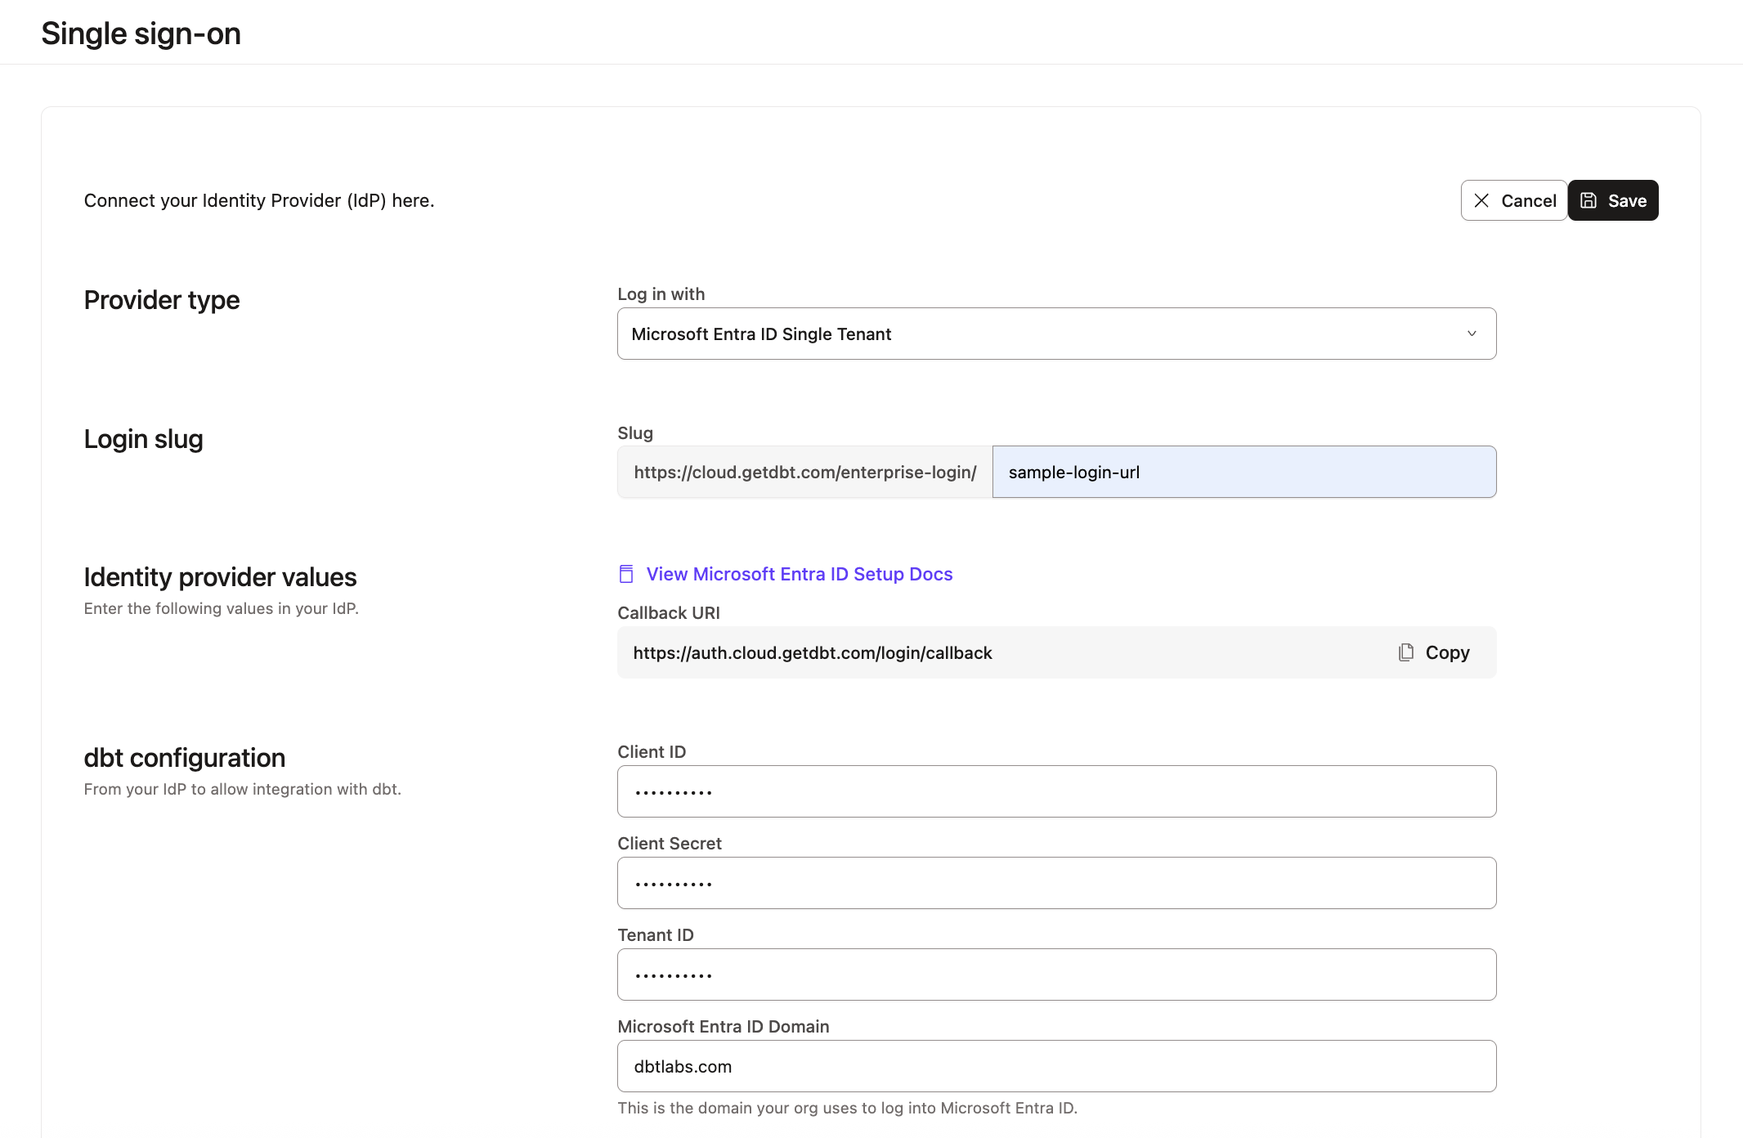
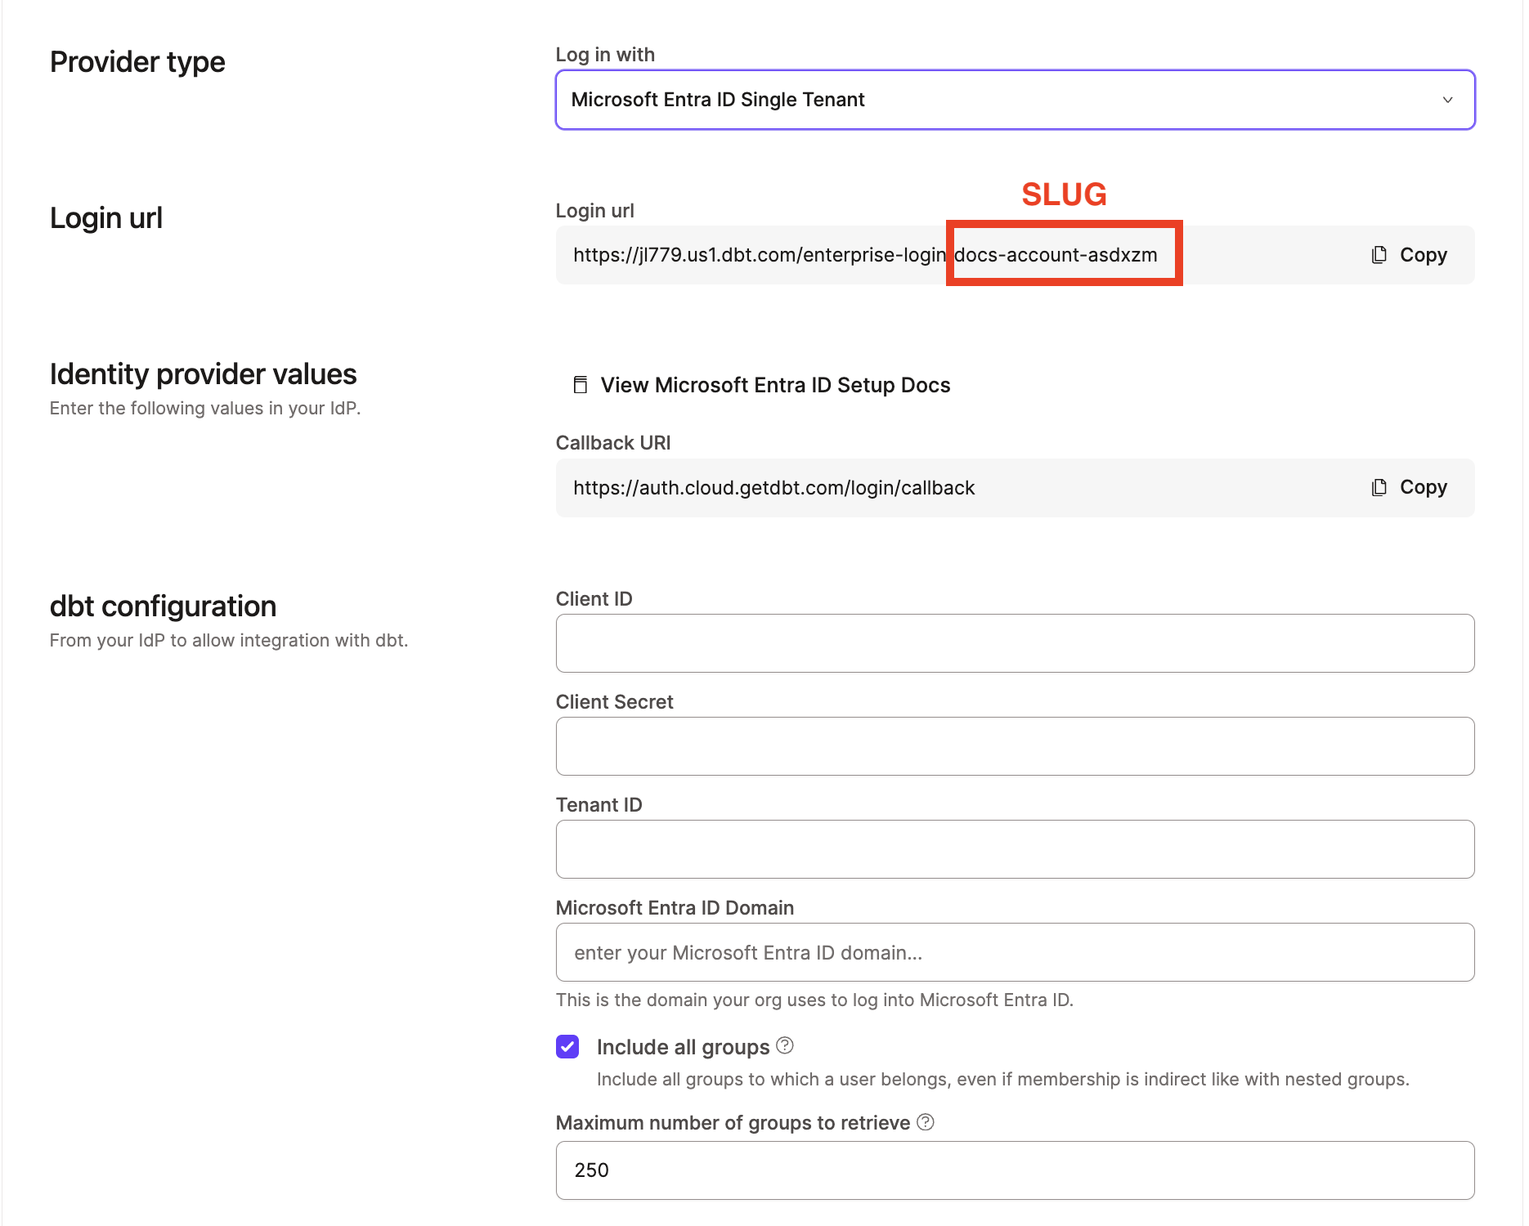
SSO Slug updates

diff --git a/website/docs/docs/cloud/manage-access/set-up-sso-saml-2.0.md b/website/docs/docs/cloud/manage-access/set-up-sso-saml-2.0.md
@@ -39,15 +39,15 @@ You'll need administrator access to your SAML 2.0 compliant identity provider to
 
 <Snippet path="access_url" />
 
-To complete this section, you will need to create a login slug. This slug controls the URL where users on your account can log into your application. Login slugs are typically the lowercased name of your organization. It should contain only letters, numbers, and dashes.
-separated with dashes. For example, the login slug for dbt Labs would be `dbt-labs`.
-Login slugs must be unique across all <Constant name="cloud" /> accounts, so pick a slug that uniquely identifies your company.
+To complete this section, you will need your login URL slug. This slug controls the URL where users on your account can log into your application. Login URL slugs are automatically set by dbt and can't be altered. It should contain only letters, numbers, and dashes.
+For example, the login URL slug for dbt Labs would be `dbt-labs`.
+Login URL slugs are unique across all <Constant name="cloud" /> accounts.
 
 When prompted for the SAML 2.0 application configurations, supply the following values:
 
-* Single sign on URL: `https://YOUR_AUTH0_URI/login/callback?connection=<login slug>`
-* Audience URI (SP Entity ID): `urn:auth0:<YOUR_AUTH0_ENTITYID>:{login slug}`
-- Relay State: `<login slug>` (Note: Relay state may be shown as optional in the IdP settings; it is _required_ for the dbt SSO configuration.) 
+* Single sign on URL: `https://YOUR_AUTH0_URI/login/callback?connection=<login URL slug>`
+* Audience URI (SP Entity ID): `urn:auth0:<YOUR_AUTH0_ENTITYID>:{login URL slug}`
+- Relay State: `<login URL slug>` (Note: Relay state may be shown as optional in the IdP settings; it is _required_ for the dbt SSO configuration.) 
 
 Additionally, you may configure the IdP attributes passed from your identity provider into <Constant name="cloud" />. [SCIM configuration](/docs/cloud/manage-access/scim) requires `NameID` and `email` to associate logins with the correct user. If you're using license mapping for groups, you need to additionally configure the `groups` attribute. We recommend using the following values:
 
@@ -141,9 +141,9 @@ You can use the instructions in this section to configure Okta as your identity 
 
 <Snippet path="access_url" />
 
-To complete this section, you will need to create a login slug. This slug controls the URL where users on your account can log into your application. Login slugs are typically the lowercased name of your organization. It should contain only letters, numbers, and dashes.
-separated with dashes. For example, the login slug for dbt Labs would be `dbt-labs`.
-Login slugs must be unique across all <Constant name="cloud" /> accounts, so pick a slug that uniquely identifies your company.
+To complete this section, you will need your login URL slug. This slug controls the URL where users on your account can log into your application. Login URL slugs are automatically set by dbt and can't be changed. It should contain only letters, numbers, and dashes.
+For example, the login URL slug for dbt Labs would be `dbt-labs`.
+Login URL slugs are unique across all <Constant name="cloud" /> accounts.
 
 1. On the **General Settings** page, enter the following details:
 
@@ -163,9 +163,9 @@ Login slugs must be unique across all <Constant name="cloud" /> accounts, so pic
 
 1. On the **SAML Settings** page, enter the following values:
 
-   * **Single sign on URL**: `https://YOUR_AUTH0_URI/login/callback?connection=<login slug>`
-   * **Audience URI (SP Entity ID)**: `urn:auth0:<YOUR_AUTH0_ENTITYID>:<login slug>`
-   * **Relay State**: `<login slug>`
+   * **Single sign on URL**: `https://YOUR_AUTH0_URI/login/callback?connection=<login URL slug>`
+   * **Audience URI (SP Entity ID)**: `urn:auth0:<YOUR_AUTH0_ENTITYID>:<login URL slug>`
+   * **Relay State**: `<login URL slug>`
    * **Name ID format**: `Unspecified`
    * **Application username**: `Custom` / `user.getInternalProperty("id")`
    * **Update Application username on**: `Create and update`
@@ -246,10 +246,9 @@ Use this section if you are configuring Google as your identity provider.
 
 <Snippet path="access_url" />
 
-To complete this section, you will need to create a login slug. This slug controls the URL where users on your account
-can log into your application. Login slugs are typically the lowercased name of your organization
-separated with dashes. It should contain only letters, numbers, and dashes. For example, the login slug for dbt Labs would be `dbt-labs`.
-Login slugs must be unique across all <Constant name="cloud" /> accounts, so pick a slug that uniquely identifies your company.
+To complete this section, you will need your login URL slug. This slug controls the URL where users on your account can log into your application. Login URL slugs are automatically set by dbt and can't be changed. It should contain only letters, numbers, and dashes.
+For example, the login URL slug for dbt Labs would be `dbt-labs`.
+Login URL slugs are unique across all <Constant name="cloud" /> accounts.
 
 1. Sign into your **Google Admin Console** via an account with super administrator privileges.
 2. From the Admin console Home page, go to **Apps** and then click **Web and mobile apps**.
@@ -266,9 +265,9 @@ Login slugs must be unique across all <Constant name="cloud" /> accounts, so pic
 2. Download the **IDP metadata**.
 3. Copy the **SSO URL** and **Entity ID** and download the **Certificate** (or **SHA-256 fingerprint**, if needed).
 4. Enter the following values on the **Service Provider Details** window:
-   * **ACS URL**: `https://YOUR_AUTH0_URI/login/callback?connection=<login slug>`
-   * **Audience URI (SP Entity ID)**: `urn:auth0:<YOUR_AUTH0_ENTITYID>:<login slug>`
-   - **Start URL**: `<login slug>`
+   * **ACS URL**: `https://YOUR_AUTH0_URI/login/callback?connection=<login URL slug>`
+   * **Audience URI (SP Entity ID)**: `urn:auth0:<YOUR_AUTH0_ENTITYID>:<login URL slug>`
+   - **Start URL**: `<login URL slug>`
 5. Select the **Signed response** checkbox.
 6. The default **Name ID** is the primary email. Multi-value input is not supported.  If your user profile has a unique, stable value that will persist across email address changes, it's best to use that; otherwise, email will work.
 7. Use the **Attribute mapping** page to map your organization's Google Directory Attributes to the format that
@@ -314,9 +313,9 @@ If you're using Microsoft Entra ID (formerly Azure AD), the instructions below w
 
 <Snippet path="access_url" />
 
-To complete this section, you will need to create a login slug. This slug controls the URL where users on your account can log into your application. Login slugs are typically the lowercased name of your organization
-separated with dashes. It should contain only letters, numbers, and dashes. For example, the login slug for dbt Labs would be `dbt-labs`.
-Login slugs must be unique across all <Constant name="cloud" /> accounts, so pick a slug that uniquely identifies your company.
+To complete this section, you will need your login URL slug. This slug controls the URL where users on your account can log into your application. Login URL slugs are automatically set by dbt and can't be changed. It should contain only letters, numbers, and dashes.
+For example, the login URL slug for dbt Labs would be `dbt-labs`.
+Login URL slugs are unique across all <Constant name="cloud" /> accounts.
 
 Follow these steps to set up single sign-on (SSO) with <Constant name="cloud" />:
 
@@ -343,9 +342,9 @@ Follow these steps to set up single sign-on (SSO) with <Constant name="cloud" />
 
    | Field | Value |
    | ----- | ----- |
-   | **Identifier (Entity ID)** | Use `urn:auth0:<YOUR_AUTH0_ENTITYID>:<login slug>`. |
-   | **Reply URL (Assertion Consumer Service URL)** | Use `https://YOUR_AUTH0_URI/login/callback?connection=<login slug>`. |
-   | **Relay State** | `<login slug>` |
+   | **Identifier (Entity ID)** | Use `urn:auth0:<YOUR_AUTH0_ENTITYID>:<login URL slug>`. |
+   | **Reply URL (Assertion Consumer Service URL)** | Use `https://YOUR_AUTH0_URI/login/callback?connection=<login URL slug>`. |
+   | **Relay State** | `<login URL slug>` |
 
 14.   Click **Save** at the top of the form.
 
@@ -393,9 +392,9 @@ To configure OneLogin, you will need **Administrator** access.
 
 <Snippet path="access_url" />
 
-To complete this section, you will need to create a login slug. This slug controls the URL where users on your account can log into your application. Login slugs are typically the lowercased name of your organization
-separated with dashes. It should contain only letters, numbers, and dashes. For example, the login slug for dbt Labs would be `dbt-labs`.
-Login slugs must be unique across all <Constant name="cloud" /> accounts, so pick a slug that uniquely identifies your company.
+To complete this section, you will need your login URL slug. This slug controls the URL where users on your account can log into your application. Login URL slugs are automatically set by dbt and can't be changed. It should contain only letters, numbers, and dashes.
+For example, the login URL slug for dbt Labs would be `dbt-labs`.
+Login URL slugs are unique across all <Constant name="cloud" /> accounts.
 
 1. Log into OneLogin, and add a new SAML 2.0 Application.
 2. Configure the application with the following details:
@@ -408,10 +407,10 @@ Login slugs must be unique across all <Constant name="cloud" /> accounts, so pic
 
 3. Under the **Configuration tab**, input the following values:
 
-   - **RelayState:** `<login slug>`
-   - **Audience (EntityID):** `urn:auth0:<YOUR_AUTH0_ENTITYID>:<login slug>`
-   - **ACS (Consumer) URL Validator:** `https://YOUR_AUTH0_URI/login/callback?connection=<login slug>`
-   - **ACS (Consumer) URL:** `https://YOUR_AUTH0_URI/login/callback?connection=<login slug>`
+   - **RelayState:** `<login URL slug>`
+   - **Audience (EntityID):** `urn:auth0:<YOUR_AUTH0_ENTITYID>:<login URL slug>`
+   - **ACS (Consumer) URL Validator:** `https://YOUR_AUTH0_URI/login/callback?connection=<login URL slug>`
+   - **ACS (Consumer) URL:** `https://YOUR_AUTH0_URI/login/callback?connection=<login URL slug>`
 
 4. Next, go to the **Parameters tab**. You must have a parameter for the Email, First Name, and Last Name attributes and include all parameters in the SAML assertions. When you add the custom parameters, make sure you select the **Include in SAML assertion** checkbox.
 
@@ -486,7 +485,7 @@ To complete setup, follow the steps below in <Constant name="cloud" />:
    | Identity&nbsp;Provider&nbsp;SSO&nbsp;Url | Paste the **Identity Provider Single Sign-On URL** shown in the IdP setup instructions |
    | Identity&nbsp;Provider&nbsp;Issuer | Paste the **Identity Provider Issuer** shown in the IdP setup instructions |
    | X.509&nbsp;Certificate | Paste the **X.509 Certificate** shown in the IdP setup instructions; <br />**Note:** When the certificate expires, an Idp admin will have to generate a new one to be pasted into <Constant name="cloud" /> for uninterrupted application access. |
-   | Slug | Enter your desired login slug. |
+  
     <Lightbox src="/img/docs/dbt-cloud/dbt-cloud-enterprise/okta/okta-6-setup-integration.png"
         title="Configuring the application in dbt" />
 

diff --git a/website/docs/docs/cloud/manage-access/set-up-sso-okta.md b/website/docs/docs/cloud/manage-access/set-up-sso-okta.md
@@ -59,18 +59,15 @@ Click **Next** to continue.
 
 The SAML Settings page configures how Okta and <Constant name="cloud" /> communicate. You will want to use an [appropriate Access URL](/docs/cloud/about-cloud/access-regions-ip-addresses) for your region and plan.
 
-To complete this section, you will need a _login slug_. This slug controls the
-URL where users on your account can log into your application via Okta. Login
-slugs are typically the lowercased name of your organization separated with
-dashes. It should contain only letters, numbers, and dashes. For example, the _login slug_ for dbt Labs would be
-`dbt-labs`. Login slugs must be unique across all <Constant name="cloud" /> accounts,
-so pick a slug that uniquely identifies your company.
+To complete this section, you will need your login URL slug. This slug controls the URL where users on your account can log into your application. Login URL slugs are automatically set by dbt and can't be changed. It should contain only letters, numbers, and dashes.
+For example, the login URL slug for dbt Labs would be `dbt-labs`.
+Login URL slugs are unique across all <Constant name="cloud" /> accounts. 
 
 <Snippet path="access_url" />
 
-* **Single sign on URL**: `https://YOUR_AUTH0_URI/login/callback?connection=<login slug>`
-* **Audience URI (SP Entity ID)**: `urn:auth0:<YOUR_AUTH0_ENTITYID>:{login slug}`
-* **Relay State**: `<login slug>`
+* **Single sign on URL**: `https://YOUR_AUTH0_URI/login/callback?connection=<login URL slug>`
+* **Audience URI (SP Entity ID)**: `urn:auth0:<YOUR_AUTH0_ENTITYID>:{login URL slug}`
+* **Relay State**: `<login URL slug>`
 * **Name ID format**: `Unspecified`
 * **Application username**: `Custom` / `user.getInternalProperty("id")`
 * **Update Application username on**: `Create and update`
@@ -155,12 +152,6 @@ To complete setup, follow the steps below in <Constant name="cloud" />.
 First, navigate to the **Enterprise &gt; Single Sign On** page under Account
 Settings. Next, click the **Edit** button and supply the following SSO details:
 
-:::note Login Slugs
-
-The slug configured here should have the same value as the  **Okta RelayState**
-configured in the steps above.
-
-:::
 
 | Field | Value |
 | ----- | ----- |
@@ -168,7 +159,7 @@ configured in the steps above.
 | **Identity&nbsp;Provider&nbsp;SSO&nbsp;Url** | Paste the **Identity Provider Single Sign-On URL** shown in the Okta setup instructions |
 | **Identity&nbsp;Provider&nbsp;Issuer** | Paste the **Identity Provider Issuer** shown in the Okta setup instructions |
 | **X.509&nbsp;Certificate** | Paste the **X.509 Certificate** shown in the Okta setup instructions; <br />**Note:** When the certificate expires, an Okta admin will have to generate a new one to be pasted into <Constant name="cloud" /> for uninterrupted application access. |
-| **Slug** | Enter your desired login slug. Users will be able to log into <Constant name="cloud" /> by navigating to `https://YOUR_ACCESS_URL/enterprise-login/LOGIN-SLUG`, replacing `YOUR_ACCESS_URL` with the [appropriate Access URL](/docs/cloud/about-cloud/access-regions-ip-addresses) for your region and plan. Login slugs must be unique across all <Constant name="cloud" /> accounts, so pick a slug that uniquely identifies your company. |
+
 
 <Lightbox
     collapsed={false}

diff --git a/website/docs/docs/cloud/manage-access/auth0-migration.md b/website/docs/docs/cloud/manage-access/auth0-migration.md
@@ -27,20 +27,12 @@ There are two fields in the SSO settings that you need for the migration:
 - **Single sign-on URL:** This will be in the format of your login URL `https://<YOUR_AUTH0_URI>/login/callback?connection=<SLUG>`
 - **Audience URI (SP Entity ID):** This will be in the format `urn:auth0:<YOUR_AUTH0_ENTITYID>:<SLUG>`
 
-Replace `<SLUG>` with your accounts login slug. 
+Replace `<SLUG>` with your accounts login URL slug. 
 
 <Lightbox src="/img/docs/dbt-cloud/access-control/sso-uris.png" title="The SSO information in account settings." />
 
 Once you have opted to begin the migration process, the following steps will vary depending on the configured identity provider. You can just skip to the section that's right for your environment. These steps only apply to customers going through the migration; new setups will use the existing [setup instructions](/docs/cloud/manage-access/sso-overview).
 
-:::warning Login \{slug\}
-
-Slugs should contain only letters, numbers, and dashes. Make sure to remove underscores (if they exist) from login slugs: 
-* Before migrating on the **Account Settings** page, or 
-* While migrating (before enabling), as shown in the migrate authentication screenshots for your respective setup. 
-After changing the slug, admins must share the new login URL with their <Constant name="cloud" /> users.
-
-:::
 
 ## SAML 2.0
 
@@ -54,7 +46,7 @@ The Okta fields that will be updated are:
 
 Below are sample steps to update. You must complete all of them to ensure uninterrupted access to <Constant name="cloud" /> and you should coordinate with your identity provider admin when making these changes.
 
-1. Replace `<SLUG>` with your organization’s login slug. It must be unique across all <Constant name="cloud" /> instances and is usually something like your company name separated by dashes (for example, `dbt-labs`).
+1. Replace `<SLUG>` with your organization’s login URL slug.
 
 Here is an example of an updated SAML 2.0 setup in Okta.
 
@@ -76,7 +68,7 @@ The Entra ID fields that will be updated are:
 
 The new values for these fields can be found in <Constant name="cloud" /> by navigating to **Account settting** --> **Single sign-on**.
 
-1. Replace `<SLUG>` with your organization’s login slug. It must be unique across all <Constant name="cloud" /> instances and is usually something like your company name separated by dashes (for example, `dbt-labs`).
+1. Replace `<SLUG>` with your organization’s login URL slug. 
 
 2. Locate your <Constant name="cloud" /> SAML2.0 app in the **Enterprise applications** section of Azure. Click **Single sign-on** on the left side menu.
 

diff --git a/website/docs/docs/dbt-versions/release-notes.md b/website/docs/docs/dbt-versions/release-notes.md
@@ -17,6 +17,7 @@ pagination_prev: null
 Release notes are grouped by month for both multi-tenant and virtual private cloud (VPC) environments.
 
 ## December 2025
+- **Enhancement**:  SSO slugs are now system generated during SSO setup and aren't customizable. SSO slug configurations that are currently in use will continue to be valid, however they will be read-only and it won't be possible to change them. If you delete your existing SSO configuration and create a new one, you'll be provided with a new system generated SSO slug. This enahances security and prevents accounts from setting slugs that "impersonate" other organizations.
 - **Enhancement**: For users in the default region (`US1`) that previously created a dbt account in the past, the dbt VS Code extension now supports registering with OAuth . This makes it easier to register the extension for users who may have forgotten their password or are locked out of their account. For more information, see [Register the extension](/docs/install-dbt-extension#register-the-extension).
 - **New and enhancements:** The dbt [Studio IDE user interface](/docs/cloud/studio-ide/ide-user-interface) has been enhanced to bring more powerful development features to your fingertips:
   -  A newly designed toolbar that groups all of your action and project insight tabs for easy access.

diff --git a/website/docs/docs/cloud/manage-access/set-up-sso-microsoft-entra-id.md b/website/docs/docs/cloud/manage-access/set-up-sso-microsoft-entra-id.md
@@ -142,7 +142,6 @@ To complete setup, follow the steps below in the <Constant name="cloud" /> appli
 | **Client&nbsp;Secret** | Paste the **Client Secret** (remember to use the Secret Value instead of the Secret ID) from the steps above; <br />**Note:** When the client secret expires, an Entra ID admin will have to generate a new one to be pasted into <Constant name="cloud" /> for uninterrupted application access. |
 | **Tenant&nbsp;ID** | Paste the **Directory (tenant ID)** recorded in the steps above |
 | **Domain** | Enter the domain name for your Azure directory (such as `fishtownanalytics.com`). Only use the primary domain; this won't block access for other domains. |
-| **Slug** | Enter your desired login slug. Users will be able to log into <Constant name="cloud" /> by navigating to `https://YOUR_ACCESS_URL/enterprise-login/LOGIN-SLUG`, replacing `YOUR_ACCESS_URL` with the [appropriate Access URL](/docs/cloud/manage-access/sso-overview#auth0-uris) for your region and plan. Login slugs must be unique across all <Constant name="cloud" /> accounts, so pick a slug that uniquely identifies your company. |
 
 <Lightbox src="/img/docs/dbt-cloud/dbt-cloud-enterprise/azure/azure-cloud-sso.png" title="Configuring Entra ID AD SSO in dbt" />
 

diff --git a/website/docs/docs/cloud/manage-access/set-up-sso-google-workspace.md b/website/docs/docs/cloud/manage-access/set-up-sso-google-workspace.md
@@ -84,10 +84,7 @@ To complete setup, follow the steps below in the <Constant name="cloud" /> appli
       Only users with an email address from this domain will be able to log into your <Constant name="cloud" />
       account using GSuite auth. Optionally, you may specify a CSV of domains
       which are _all_ authorized to access your <Constant name="cloud" /> account (eg. `dbtlabs.com, fishtowndata.com`)
-    - **Slug**: Enter your desired login slug. Users will be able to log into dbt
-      Cloud by navigating to `https://YOUR_ACCESS_URL/enterprise-login/LOGIN-SLUG`, replacing `YOUR_ACCESS_URL` with the [appropriate Access URL](/docs/cloud/about-cloud/access-regions-ip-addresses) for your region and plan. The `LOGIN-SLUG` must
-      be unique across all <Constant name="cloud" /> accounts, so pick a slug that uniquely
-      identifies your company.
+      
     <Lightbox src="/img/docs/dbt-cloud/dbt-cloud-enterprise/gsuite/gsuite-sso-cloud-config.png" title="GSuite SSO Configuration"/>
 3. Click **Save &amp; Authorize** to authorize your credentials. You should be
    dropped into the GSuite OAuth flow and prompted to log into <Constant name="cloud" /> with

diff --git a/website/snippets/auth0-uri.md b/website/snippets/auth0-uri.md
@@ -3,7 +3,7 @@ The URI used for SSO connections on multi-tenant <Constant name="cloud" /> insta
 
 1. Navigate to your **Account settings** and click **Single sign-on** on the left menu.
 1. Click **Edit** in the **Single sign-on** pane.
-1. Select the appropriate **Identity provider** from the dropdown and the **Login slug** and **Identity provider values** will populate for that provider. 
+1. Select the appropriate **Identity provider** from the dropdown and the **Login URL slug** and **Identity provider values** will populate for that provider. 
 
 <Lightbox src="/img/docs/dbt-cloud/access-control/sso-uri.png" title="Example of the identity provider values for a SAML 2.0 provider" />
 
